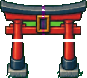
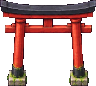
Trees, bushes and street/forest props from the Hinomori outdoor sheets
- tools/build_outdoor.py cuts hm_trees / hm_props / hm_forest_props and saves them
  under the existing sprite keys (trees, bushes, lamps, poles, stone lanterns,
  hokora, torii, bench, post box, vending machine, bicycle, mirror, notice boards,
  signposts, planters, barrel, rock, stump, mushrooms); maple, pine, hedge, log
  and jizō are cut as new keys for later
- ground paintings for town and forest kept as drafts (they don't follow the map
  layout yet)

Claude-Session: https://claude.ai/code/session_011Zi88tGxDgPkapzyoRV2XS

diff --git a/tools/build_outdoor.py b/tools/build_outdoor.py
@@ -1,0 +1,46 @@
+"""
+Cut trees, bushes and outdoor props from the Hinomori outdoor sheets
+(art/sheets/hm_trees.webp, hm_props.webp, hm_forest_props.webp) and save them under the
+existing sprite keys, so the town and forest use them without map changes.
+
+Run: python3 tools/build_outdoor.py
+"""
+import os
+import sys
+
+sys.path.insert(0, os.path.dirname(__file__))
+from build_rooms import piece  # noqa: E402
+from extract_sheets import OUT, resize_px  # noqa: E402
+
+# sheet: [(index, sprite key(s), width in game px)]
+PIECES = {
+    'trees': [
+        (0, ['n_tree_round'], 64), (3, ['n_tree_sakura', 'p_sakura'], 70), (1, ['n_tree_cedar'], 50),
+        (4, ['n_tree_maple'], 64), (5, ['n_tree_pine'], 46), (6, ['n_bush'], 30), (7, ['n_bush_flowers'], 30),
+        (8, ['n_hedge'], 62),
+    ],
+    'props': [
+        (0, ['p_lamp'], 20), (1, ['tp_pole'], 40), (3, ['tp_lantern', 'n_lantern'], 28), (4, ['tp_hokora'], 40),
+        (2, ['tp_torii'], 96), (7, ['tp_bench'], 58), (5, ['tp_postbox', 'p_mailbox'], 24), (6, ['tp_vending'], 32),
+        (8, ['tp_bicycle'], 62), (9, ['tp_mirror'], 22), (10, ['p_board2', 'p_board'], 44), (11, ['p_signpost'], 26),
+        (12, ['tp_planter_y', 'tp_planter_p'], 32), (13, ['tp_barrel'], 26),
+    ],
+    'forest_props': [
+        (0, ['n_rock'], 30), (1, ['g_stump'], 28), (2, ['n_log'], 60), (3, ['n_jizo'], 26),
+        (4, ['p_sign_small'], 26), (5, ['g_mushrooms'], 26),
+    ],
+}
+
+
+def main():
+    for sh, items in PIECES.items():
+        for idx, keys, width in items:
+            img = piece(sh, idx, scale=1)
+            img = resize_px(img, max(8, round(img.height * width / img.width)))
+            for k in keys:
+                img.save(os.path.join(OUT, f'{k}.png'))
+    print(', '.join(k for items in PIECES.values() for _, ks, _ in items for k in ks))
+
+
+if __name__ == '__main__':
+    main()
